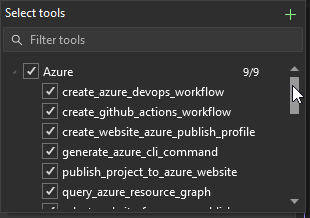
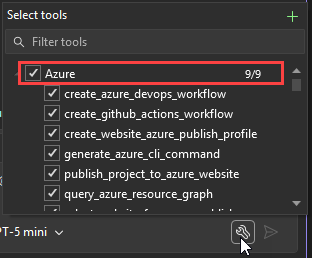
Yun Jung's edits

diff --git a/articles/github-copilot-azure/includes/get-started-visual-studio-2026.md b/articles/github-copilot-azure/includes/get-started-visual-studio-2026.md
@@ -39,9 +39,13 @@ ms.date: 10/16/2025
 
 1. If prompted, sign in to your Azure account. 
 
-1. In the chat area, select the **Select tools** button (two wrenches icon) to display a list of available tools. Enable all Azure tools by checking the top nodes **Azure** and **Azure MCP**.
+1. In the chat area, select the **Select tools** button (two wrenches icon) to display a list of available tools. Enable all Azure tools by checking the top nodes for **Azure**.
 
-   :::image type="content" source="../media/get-started/visual-studio-2026-select-tools.png" alt-text="Screenshot that shows the select tools dialog.":::
+   :::image type="content" source="../media/get-started/visual-studio-2026-select-tools.png" alt-text="Screenshot that shows the select tools dialog with the Azure node checked.":::
+
+   Also select the top node for **Azure MCP Server**.
+
+   :::image type="content" source="../media/get-started/visual-studio-2026-select-tools-mcp-server.png" alt-text="Screenshot that shows the select tools dialog with the Azure MCP Server node checked.":::
 
 
 ## Write your first prompt

diff --git a/articles/github-copilot-azure/includes/get-started-visual-studio-2022.md b/articles/github-copilot-azure/includes/get-started-visual-studio-2022.md
@@ -27,7 +27,7 @@ ms.date: 10/17/2025
 1. Re-open Visual Studio 2022.
 1. Select the "GitHub Copilot" button in upper-right of window on the toolbar. Select "Open Chat Window".
 1. When the "GitHub Copilot Chat" window appears, in the chat area at the bottom, select "Agent" mode, then click the "Select tools" button (two wrenches).
-1. In the "Select tools" dialog, you should see "Azure MCP Server v0.8.4" (or whatever version is displayed). To the right of that, you'll see "0/153" if not tools are selected (which is currently the default). Select the parent node to choose all of the tools.
+1. In the "Select tools" dialog, you should see "Azure MCP Server". To the right of that, you'll see "0/153" if no tools are selected (which is currently the default). Select the parent node to choose all of the tools.
 
 > [!Important]
 > If you do not see "Azure MCP Server" in the list of tools, you may need to uninstall and re-install the extension.
